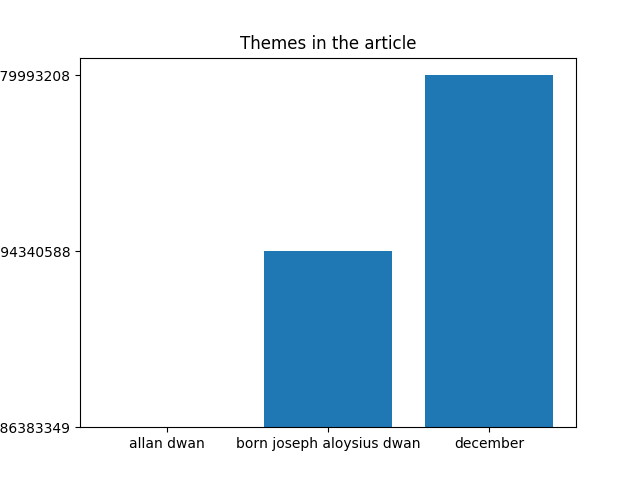
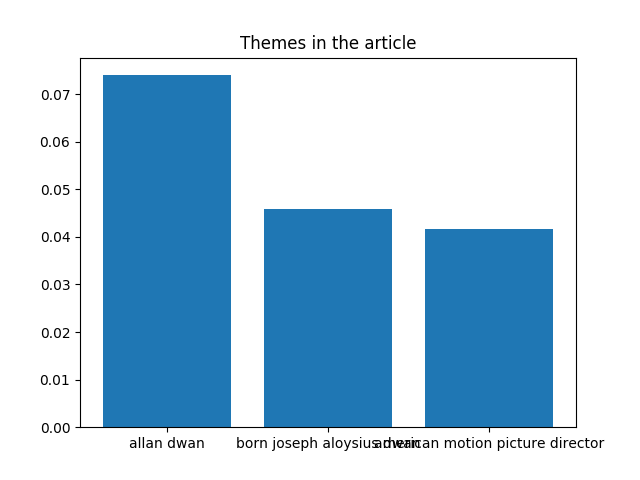
Works better now

diff --git a/week5/templates/index.html b/week5/templates/index.html
@@ -47,9 +47,9 @@
             <!--insert the query plot-->       
             {% for item in matches %}
             <div>    <!--Display the name of the item based on the "name" key-->
-                <h3 class="arial" style="color:black">{{ item["name"] }}</h3>
+                <h3 class="arial" style="color:black"><a href="https://en.wikipedia.org/wiki/{{item["name"]}}" target="_blank">{{ item["name"] }}</a></h3>
                 <p class="arial">{{item["palat"]}}</p>
-                <img src="/static/{{ item['pltpath'] }}" style="width: 300px; height 100%"><a href="https://en.wikipedia.org/wiki/{{item["name"]}}" target="_blank">Go to Wikipedia</a>
+                <img src="/static/{{ item['pltpath'] }}" style="width: 300px; height 100%">
 
             <!--End for loop-->
             </div>

diff --git a/week5/test.py b/week5/test.py
@@ -11,6 +11,7 @@ from nltk.stem import LancasterStemmer
 from pathlib import Path
 import pke
 import time
+from decimal import Decimal
 
 
 mlp.use('Agg')
@@ -25,6 +26,7 @@ except OSError:
     print("File not found")
 
 app = Flask(__name__)
+app.config['SEND_FILE_MAX_AGE_DEFAULT'] = 0
 
 def extract_pieces(query,content):
     start_indexes = [m.start() for m in re.finditer(query,content.lower())]
@@ -60,8 +62,6 @@ def search():
                     if plots < 5:
                         break
         #Render index.html with matches variable
-        #The program sleeps for 10 seconds to give it some time to load the pictures, don't know if this helps at all
-        time.sleep(10)
         return render_template('index.html', matches=matches[:5])
     else:
         return render_template('indexempty.html', matches=[])
@@ -72,7 +72,7 @@ def generate_individual_plots(query, art_name, content, pieces):
     sisalto = ''.join(content)
     try:
         extractor = pke.unsupervised.TopicRank()
-        extractor.load_document(input=sisalto[0:700], language='en')
+        extractor.load_document(input=sisalto[0:1000], language='en')
         extractor.candidate_selection()
         extractor.candidate_weighting()
         keyphrases = extractor.get_n_best(n=3)
@@ -82,10 +82,10 @@ def generate_individual_plots(query, art_name, content, pieces):
             names.append(keyphrase[0])
             values.append(str(keyphrase[1]))
         plt.figure()
+        values = list(map(float, values))
         plt.bar(names, values)
         plt.title('Themes in the article')
     except ValueError: #Pass if there are no themes in the text
         pass  
     plt.savefig('static/'+art_name+'_plt.png')
-
 
